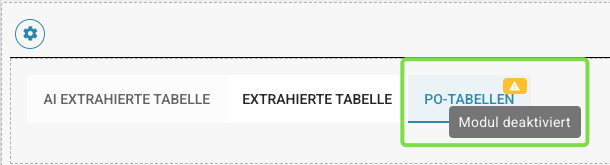
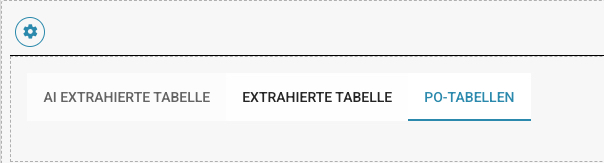
GITBOOK-127: No subject

diff --git a/readme/end-user-and-partner-section/end-user-section/schermo-di-validazione/README.md b/readme/end-user-and-partner-section/end-user-section/schermo-di-validazione/README.md
@@ -156,21 +156,7 @@ Gli script possono essere creati nelle impostazioni sotto Tipi di Documento; que
 
 ### **Altre impostazioni:**
 
-<figure><img src="../../../.gitbook/assets/validation_screen23.png" alt="" width="239"><figcaption></figcaption></figure>
-
-### **Dividi documento:**
-
-* Qui puoi dividere il documento e tagliare o eliminare le pagine che non sono necessarie
-* **Dividi Documento:**
-  * **Scopo:** Consente agli utenti di dividere un documento in parti separate, rimuovendo o isolando le pagine che non sono necessarie.
-  * **Caso d'uso:** Ideale quando si trattano documenti multipagina in cui solo alcune sezioni sono necessarie per l'elaborazione o la revisione.
-
-### **Migliora documento:**
-
-* Il documento verrà riavviato
-* **Migliora Documento:**
-  * **Scopo:** Reimposta il documento al suo stato iniziale per una nuova valutazione o ulteriori modifiche.
-  * **Caso d'uso:** Utile quando è necessario annullare le modifiche iniziali o il documento deve essere aggiornato per un altro giro di modifiche. Qui abbiamo bisogno di una visione ML extra per migliorare la qualità del documento.
+<figure><img src="../../../.gitbook/assets/image.png" alt=""><figcaption></figcaption></figure>
 
 ### **Flusso del documento:**
 
@@ -185,3 +171,13 @@ Lì troverai il flusso del documento
 * **Vai al Modello di Layout:**
   * **Scopo:** Reindirizza gli utenti a un editor di layout dove possono modificare i modelli esistenti o applicarne uno predefinito.
   * **Caso d'uso:** Consente la personalizzazione dei layout dei documenti per soddisfare esigenze o preferenze aziendali specifiche, migliorando l'allineamento visivo e funzionale del documento con gli standard aziendali.
+
+### Usa E-Text se Disponibile
+
+* **Scopo:** Consente a DocBits di utilizzare e-text per tutti i documenti di un fornitore specifico se disponibile, migliorando l'accuratezza dell'estrazione.
+* **Caso d'Uso:** Migliora l'estrazione del testo sfruttando il testo incorporato invece dell'OCR, il che può portare a risultati più precisi per questo fornitore.
+
+### Modello AI Basato sul Fornitore
+
+* **Scopo:** Consente la selezione tra tre diversi modelli AI per ottimizzare i risultati di estrazione per un fornitore specifico.
+* **Caso d'Uso:** Garantisce una migliore accuratezza dell'estrazione scegliendo il modello AI più adatto per la struttura e il contenuto dei documenti di ciascun fornitore.

diff --git a/readme/administration-and-setup/settings/global-settings/document-types/more-settings/po-table-in-layout-builder.md b/readme/administration-and-setup/settings/global-settings/document-types/more-settings/po-table-in-layout-builder.md
@@ -18,13 +18,13 @@ Pour activer cette fonctionnalité :
   *   Aucune notification indiquant que le module est désactivé ne sera affichée.\
 
 
-      <figure><img src="../../../../../.gitbook/assets/image.png" alt=""><figcaption></figcaption></figure>
+      <figure><img src="../../../../../.gitbook/assets/image (1).png" alt=""><figcaption></figcaption></figure>
 * **Lorsque désactivé** :
   * Un indice indiquera que le module est désactivé.
   *   La **table PO** ne sera pas visible dans l'**Écran de Validation**.\
 
 
-      <figure><img src="../../../../../.gitbook/assets/image (1).png" alt=""><figcaption></figcaption></figure>
+      <figure><img src="../../../../../.gitbook/assets/image (1) (1).png" alt=""><figcaption></figcaption></figure>
 
 **Comment accéder au Constructeur de Mise en Page**
 

diff --git a/readme/administration-and-setup/settings/global-settings/document-types/e-docs/eslog-1.6-and-2.0.md b/readme/administration-and-setup/settings/global-settings/document-types/e-docs/eslog-1.6-and-2.0.md
@@ -21,7 +21,7 @@ Entrambe le versioni di eSLOG sono abilitate per impostazione predefinita.
 *   Individua la versione di eSLOG che desideri modificare.\
 
 
-    <figure><img src="../../../../../.gitbook/assets/image (1) (1).png" alt=""><figcaption></figcaption></figure>
+    <figure><img src="../../../../../.gitbook/assets/image (1) (1) (1).png" alt=""><figcaption></figcaption></figure>
 
 ### **Configurazione della Trasformazione e del Percorso XML:**
 
